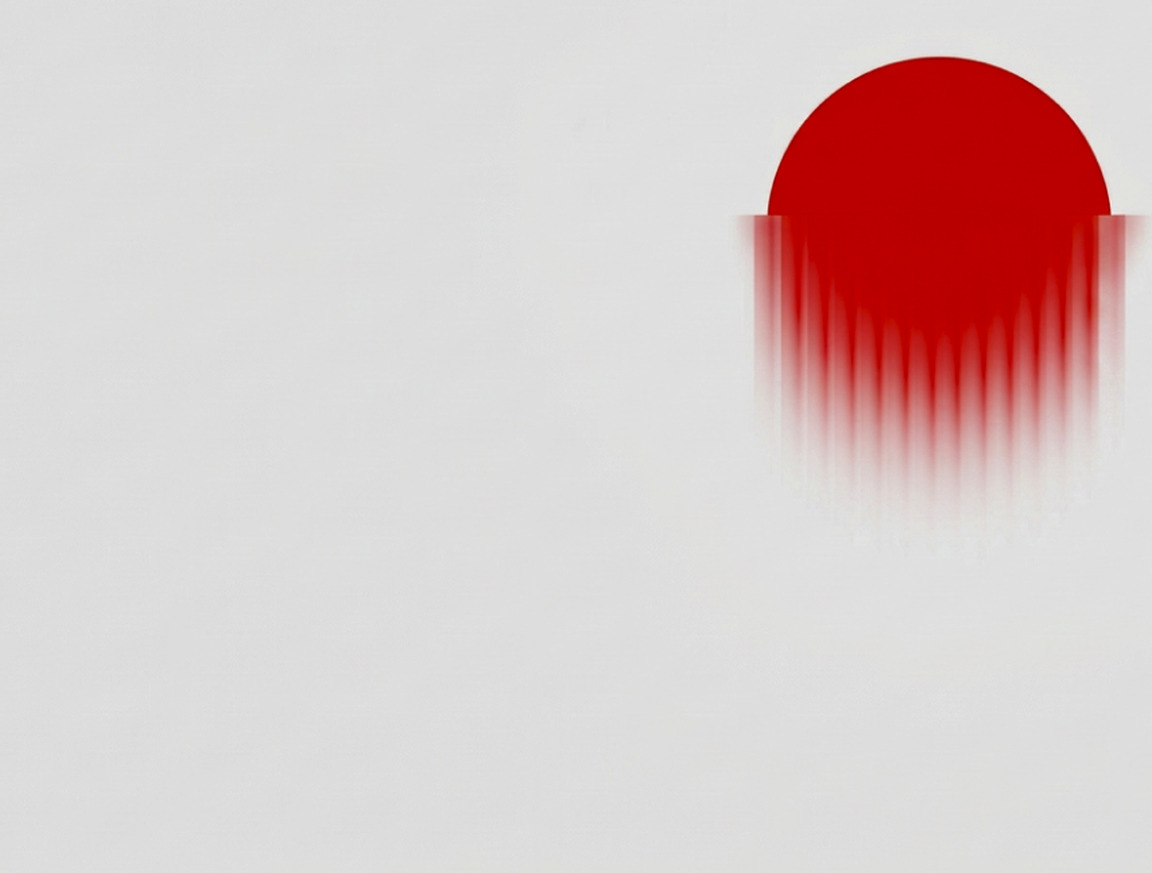
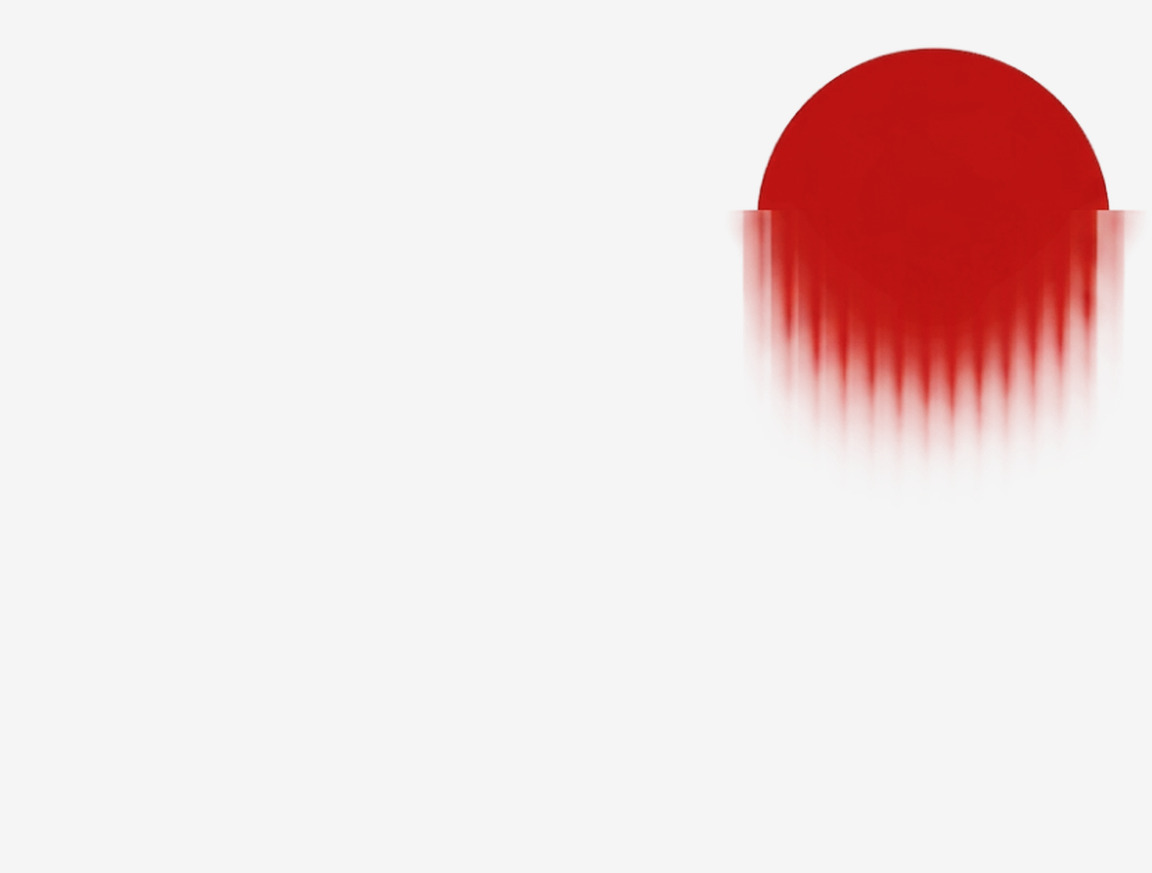
Подход: новые картинки и фон карточек из макета
- фон светлых карточек #f5f5f5 вместо тёплого #f2f0ec;
- графика пересобрана из новых слоёв: на первой солнце крупнее
  и правее, на третьей заря идёт из левого верхнего угла;
- заголовок карточки встаёт на 134px от её верха — как в макете,
  все три на одной линии;
- перенос в «Из запусков — в постоянные продажи» как в макете.

Сверено с рендером Figma: 0.15 из 255 на первой карточке,
12 из 255 на видимой части третьей.

diff --git a/demo/styles.css b/demo/styles.css
@@ -3390,7 +3390,7 @@ p.hero__lead { text-wrap: normal; }
 /* Три ступени: светлая с «солнцем», тёмная, светлая с «зарёй».
    Графика — из макета, собрана из тех же слоёв. */
 .step--light {
-  background: #f2f0ec url("assets/cards/approach-1.jpg") center / cover no-repeat;
+  background: #f5f5f5 url("assets/cards/approach-1.jpg") center / cover no-repeat;
   color: #16120d;
 }
 /* Графика занимает правый верх — строку туда не пускаем */
@@ -3406,7 +3406,7 @@ p.hero__lead { text-wrap: normal; }
 
 .step--dawn {
   border-color: transparent;
-  background: #f2f0ec url("assets/cards/approach-3.jpg") center / cover no-repeat;
+  background: #f5f5f5 url("assets/cards/approach-3.jpg") center / cover no-repeat;
   color: #16120d;
 }
 .step--dawn .step__num  { border-color: rgba(22, 18, 13, 0.22); color: rgba(22, 18, 13, 0.62); }
@@ -3420,9 +3420,10 @@ p.hero__lead { text-wrap: normal; }
   justify-content: center;
   min-width: 2.5em;
   padding: 0.35em 0.75em;
-  /* Отступ из макета: 60px при карточке 291. Он постоянный, чтобы
-     заголовки всех трёх карточек стояли на одной линии. */
-  margin-bottom: clamp(1.75rem, 1.25rem + 2.1333vw, 3.75rem);
+  /* Отступ из макета: заголовок начинается на 134px от верха
+     карточки 291. Постоянный, чтобы заголовки всех трёх карточек
+     стояли на одной линии. */
+  margin-bottom: clamp(1.75rem, 0.6667rem + 4.8148vw, 5rem);
   border: 1px solid rgba(255, 255, 255, 0.22);
   border-radius: 999px;
   font-size: var(--fs-s);

diff --git a/v2/styles.css b/v2/styles.css
@@ -3390,7 +3390,7 @@ p.hero__lead { text-wrap: normal; }
 /* Три ступени: светлая с «солнцем», тёмная, светлая с «зарёй».
    Графика — из макета, собрана из тех же слоёв. */
 .step--light {
-  background: #f2f0ec url("assets/cards/approach-1.jpg") center / cover no-repeat;
+  background: #f5f5f5 url("assets/cards/approach-1.jpg") center / cover no-repeat;
   color: #16120d;
 }
 /* Графика занимает правый верх — строку туда не пускаем */
@@ -3406,7 +3406,7 @@ p.hero__lead { text-wrap: normal; }
 
 .step--dawn {
   border-color: transparent;
-  background: #f2f0ec url("assets/cards/approach-3.jpg") center / cover no-repeat;
+  background: #f5f5f5 url("assets/cards/approach-3.jpg") center / cover no-repeat;
   color: #16120d;
 }
 .step--dawn .step__num  { border-color: rgba(22, 18, 13, 0.22); color: rgba(22, 18, 13, 0.62); }
@@ -3420,9 +3420,10 @@ p.hero__lead { text-wrap: normal; }
   justify-content: center;
   min-width: 2.5em;
   padding: 0.35em 0.75em;
-  /* Отступ из макета: 60px при карточке 291. Он постоянный, чтобы
-     заголовки всех трёх карточек стояли на одной линии. */
-  margin-bottom: clamp(1.75rem, 1.25rem + 2.1333vw, 3.75rem);
+  /* Отступ из макета: заголовок начинается на 134px от верха
+     карточки 291. Постоянный, чтобы заголовки всех трёх карточек
+     стояли на одной линии. */
+  margin-bottom: clamp(1.75rem, 0.6667rem + 4.8148vw, 5rem);
   border: 1px solid rgba(255, 255, 255, 0.22);
   border-radius: 999px;
   font-size: var(--fs-s);

diff --git a/v2/index.html b/v2/index.html
@@ -457,7 +457,7 @@
       <ul class="approach__rail" role="list">
       <li class="step step--light" style="--i:0">
         <span class="step__num">01</span>
-        <h3 class="step__name">Из&nbsp;запусков&nbsp;— в&nbsp;постоянные продажи</h3>
+        <h3 class="step__name">Из&nbsp;запусков&nbsp;— в постоянные продажи</h3>
         <p class="step__text">Выручка перестаёт зависеть от&nbsp;даты старта. «Зайду попозже» исчезает&nbsp;— купить у&nbsp;вас можно в&nbsp;любой день.</p>
       </li>
       <li class="step step--grey" style="--i:1">
